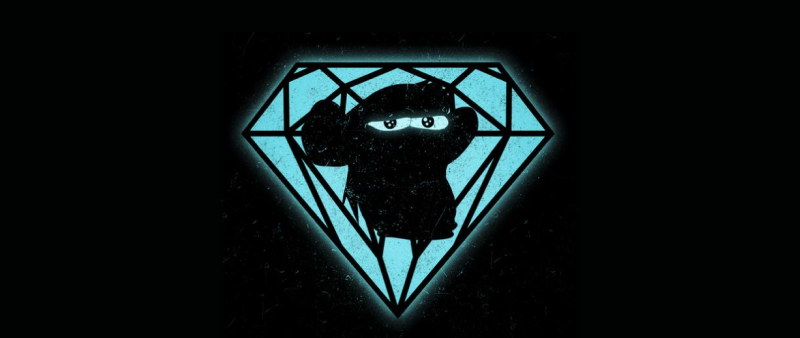
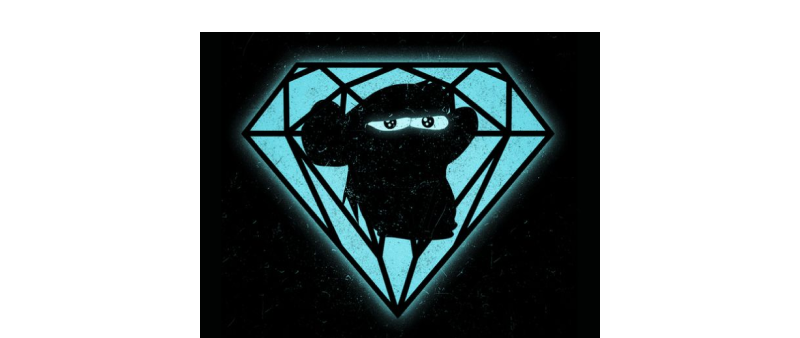
Adjusted Assets

diff --git a/src/components/tile.tsx b/src/components/tile.tsx
@@ -1,6 +1,7 @@
 import React from 'react';
 import { CSSObject } from '@emotion/react';
 import styled from '@emotion/styled';
+import Placeholder from '../assets/placeholder.png';
 
 
 type StyleProps = {
@@ -30,8 +31,8 @@ const ImageEl = styled.img`
   height: auto;
 `;
 
-const Tile: React.FC<Props> = ({ title, image, localStyles, ...props }) => {
-  return <Outer localStyles={localStyles} {...props}><ImageEl src={image} alt={title} /></Outer>;
+const Tile: React.FC<Props> = ({ title, image = Placeholder, localStyles, ...props }) => {
+  return <Outer localStyles={localStyles} {...props}><ImageEl height={169} width={169} src={image} alt={title} /></Outer>;
 };
 
 export default Tile;
